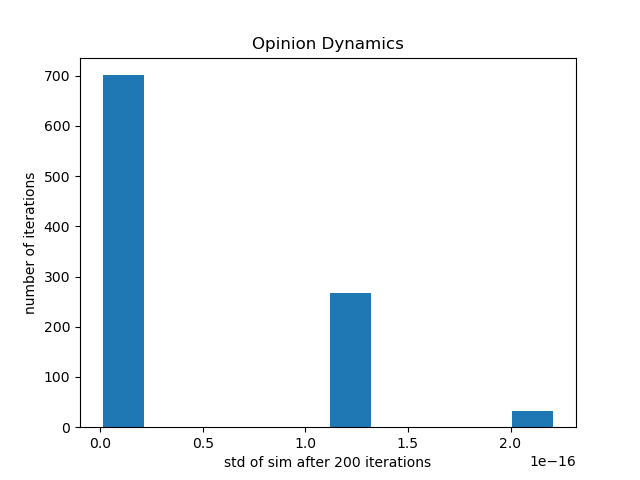
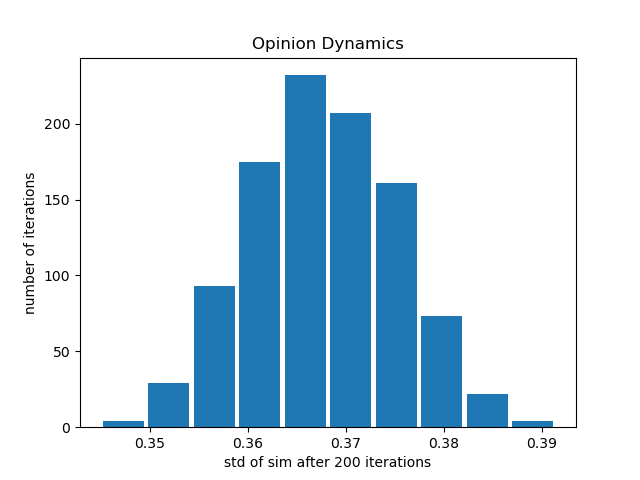
fixed names, added comments, ran some more trials

diff --git a/draft_1/generate_cluster.py b/draft_1/generate_cluster.py
@@ -2,11 +2,15 @@ import numpy as np
 
 # re-normalizes the matrix to be row stochastic
 def normalize(A):
+    # zero out the self loops because fj doesn't allow them
     np.fill_diagonal(A,0)
     n=A.shape[0]
+    # divide each row by its sum to make it row-stochastic
     row_sums = A@np.ones(n)
     inv_row_sums = np.divide(np.ones(n),row_sums)
+    # must transpose for the shape to line up
     A = A.T*inv_row_sums
+    # then un-transpose
     A = A.T
     return A
 
@@ -22,28 +26,19 @@ def generate_influencer_matrix(n=10, cs=5):
 
     Lambda = lambda_list*np.identity(n)
 
-    # adjacency matrix, must be row stochastic
-    # uniformly connected
-    # A11 = (np.ones((n,n)) - np.identity(n))*0.1
     A11 = np.zeros((n,n))
-    # print(A11)
-    # print(A11[n-1,:]+np.array([0.9]*(n-1)+[0]))
 
     # concatentate together
     A = A11
-    # TODO: check if this should be rows or columns to have one individual influence many others
     A[:,n-1] = A11[:,n-1]+np.array([1]*(n-1)+[0])
     A[n-1,:] = np.array([1]*(n-1)+[0])
-    # print(A)
-
 
     # and rescale to be row stochastic
     A=normalize(A)
 
-    # print(A)
-
     # the initial opinions of the system
     x0 = np.concatenate((np.random.sample(n-1)*0.5,np.random.sample(1)*0.5+0.5),axis=0)
+
     # print(A)
     return [A,Lambda,x0]
 
@@ -53,6 +48,7 @@ def generate_influencer_matrix(n=10, cs=5):
 # returns: an ajacency matrix of two groups: strongly connected cluster and uniformly connected individuals,
 # influence values,
 # initial opinions of the sytem
+# TODO: implement this function
 def generate_cluster(n=10, cs=5):
 
     A=0
@@ -61,6 +57,8 @@ def generate_cluster(n=10, cs=5):
 
     return [A,Lambda,x0]
 
+# generates a uniformly distributed adjacency matrix
+# returns: the matrix and a randomly initialized set of initial opinions between [0,1]
 def generate_uniform(n=10,cs=5):
     A = np.ones((n,n))
     A=normalize(A)
@@ -68,7 +66,9 @@ def generate_uniform(n=10,cs=5):
     x0 = np.random.sample(n)
     return [A,x0]
 
+# generates the adjacency matrix for two completely separate clusters as a starting point for experiments
 # n must be an even number
+# returns: the adjacency matrix, the influence matrix, and the randomized initial opinions (group 1 [0,0.5], group 2 [0.5,1])
 def generate_2_cluster(n=10):
     # list of openness values
     lambda_list = np.array([0.3]*n)

diff --git a/draft_1/intervention_6.py b/draft_1/intervention_6.py
@@ -2,7 +2,7 @@ import numpy as np
 
 from  generate_cluster import generate_influencer_matrix, generate_uniform, generate_2_cluster
 from post_process import email_blast, friendship
-from bulk_wm_sim import bulk_sim_influencer, plot_std, bulk_sim_2_cluster
+from bulk_fj_sim import bulk_sim_influencer, plot_std, bulk_sim_2_cluster
 
 #set for simpler printing
 np.set_printoptions(precision=4)
@@ -11,7 +11,7 @@ np.set_printoptions(precision=4)
 sim_length = 50
 
 # size of the population
-n = 10
+n = 100
 # cluster size
 cs = 5
 

diff --git a/draft_1/bulk_wm_sim.py b/draft_1/bulk_wm_sim.py
@@ -1,6 +1,6 @@
 import numpy as np
 import matplotlib.pyplot as plt
-from friedkin_johnsen_sim import run_sim
+from weighted_median_sim import run_sim
 
 # runs iteration number of trials of the weighted median simulation of an influencer matrix
 # returns: x, the list of the final opinions of each trial. size (n,iterations)
